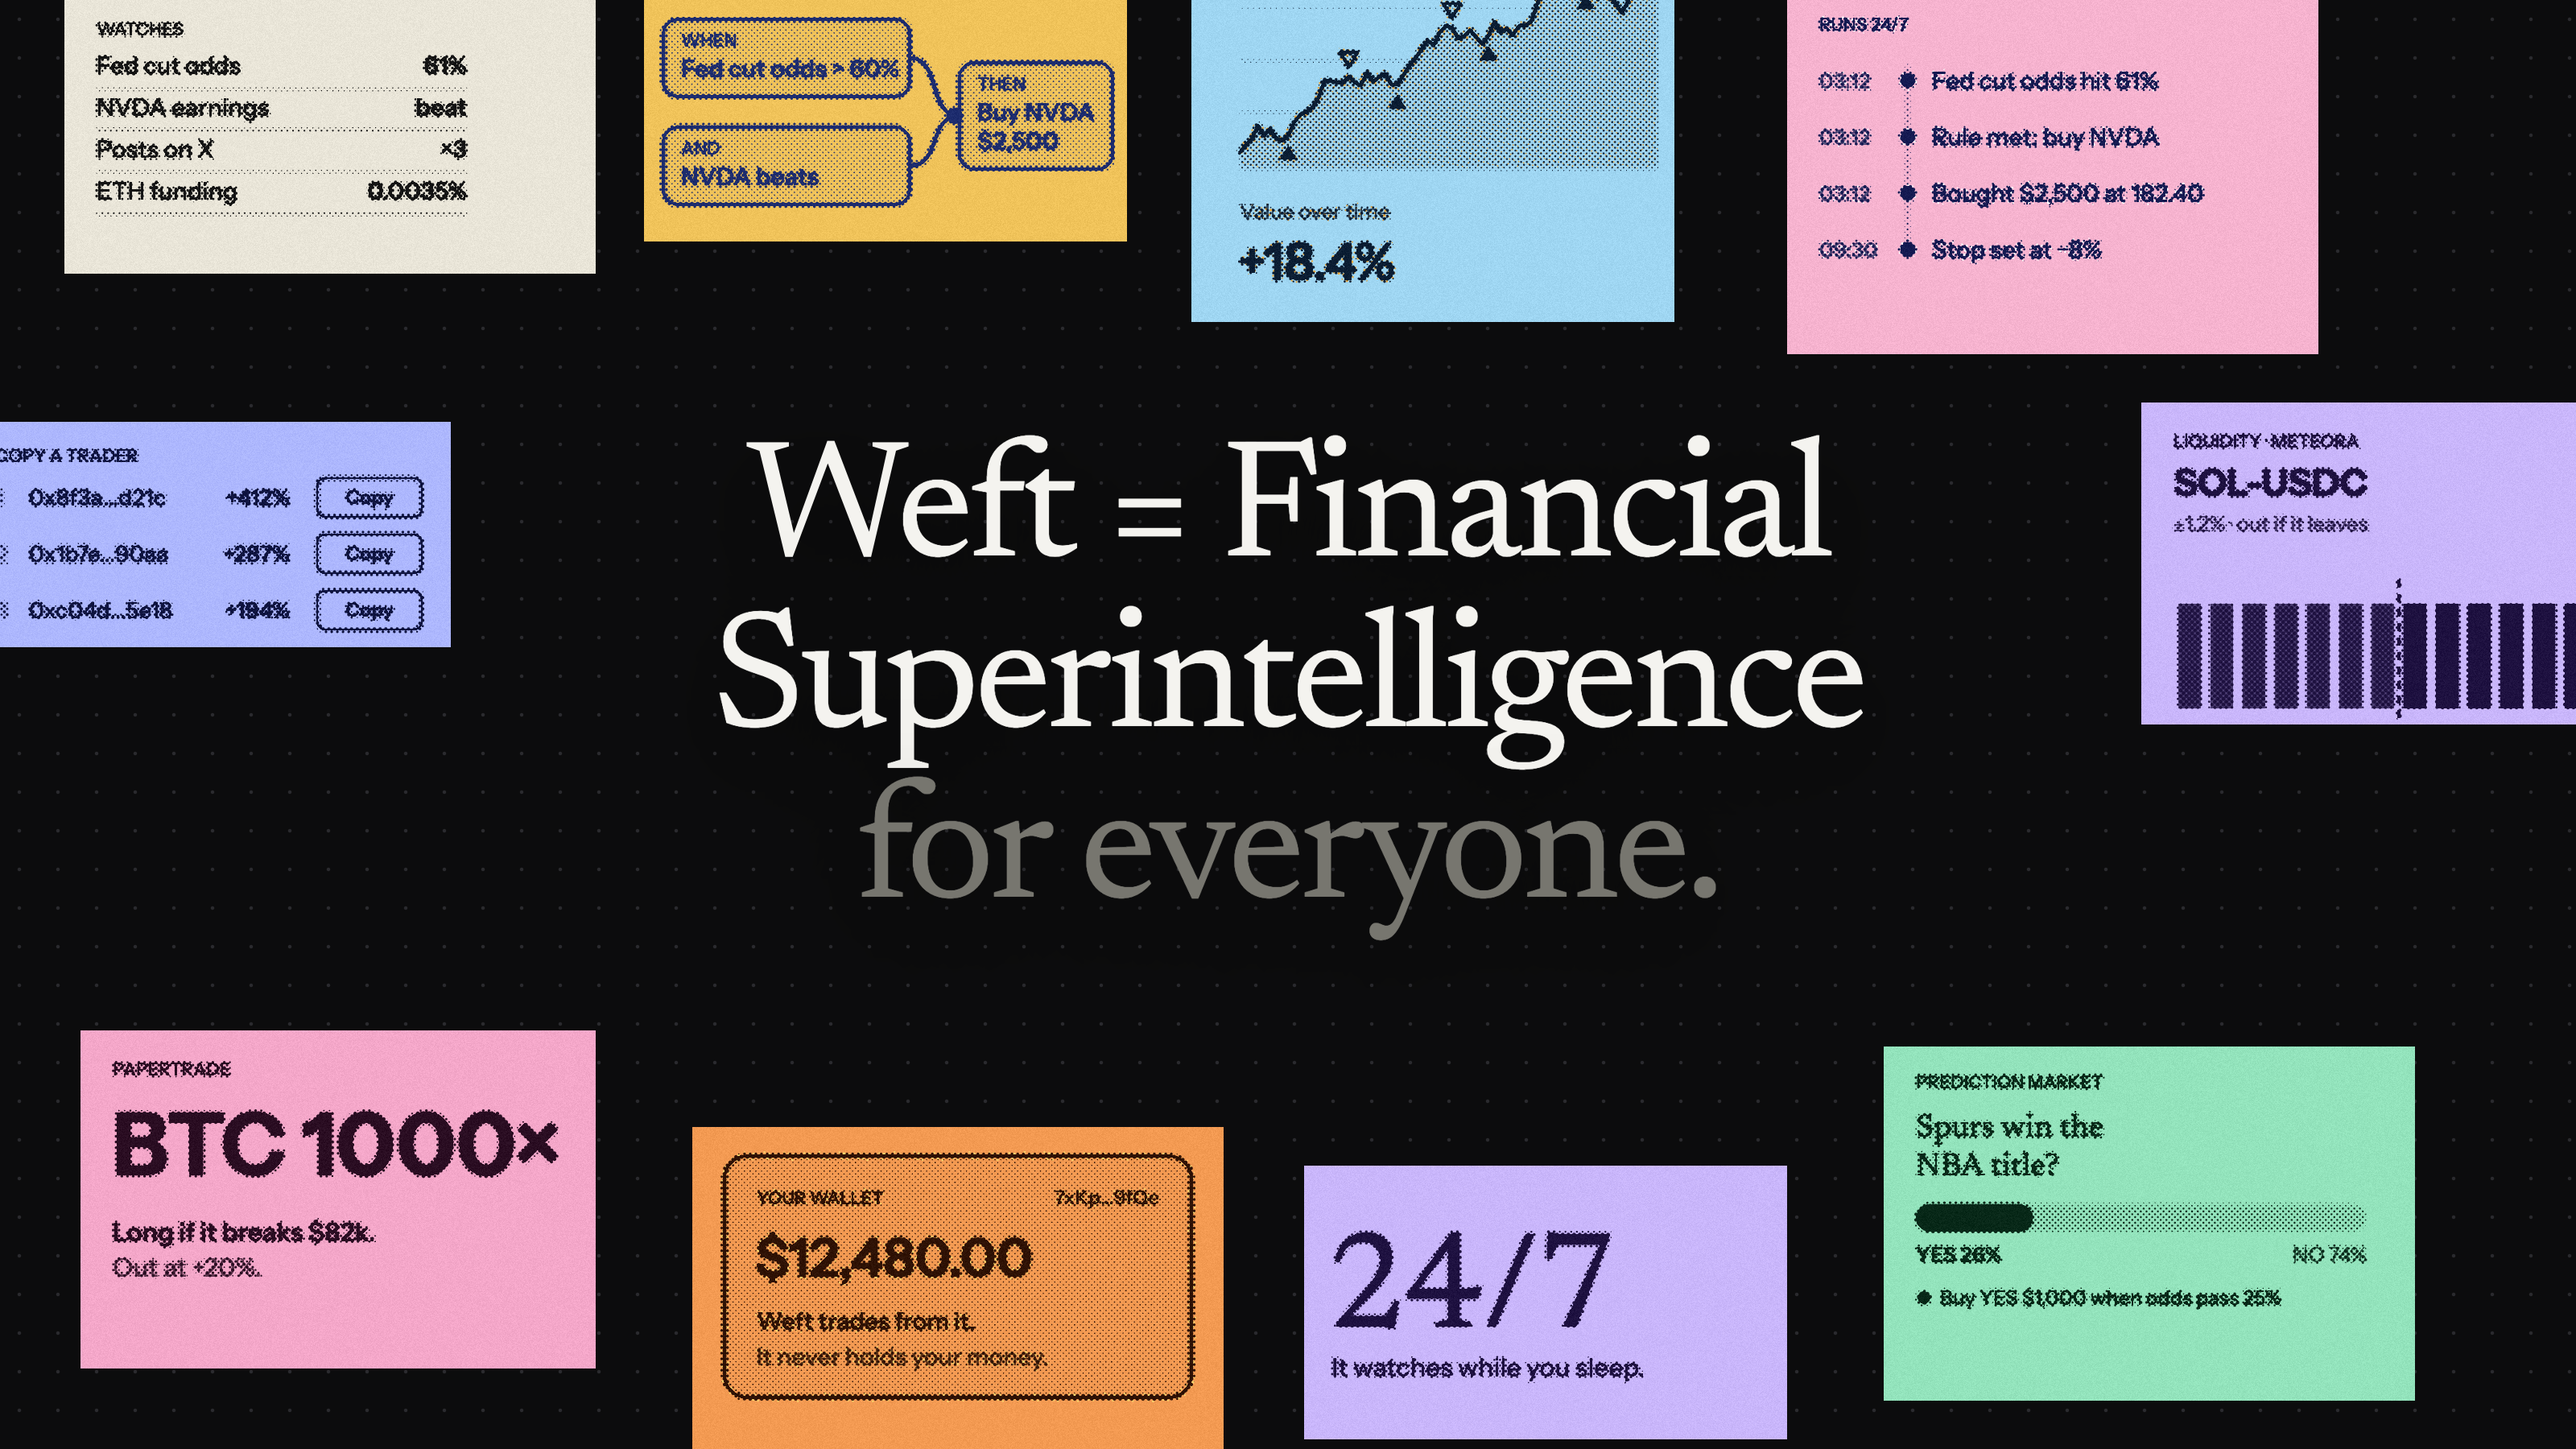
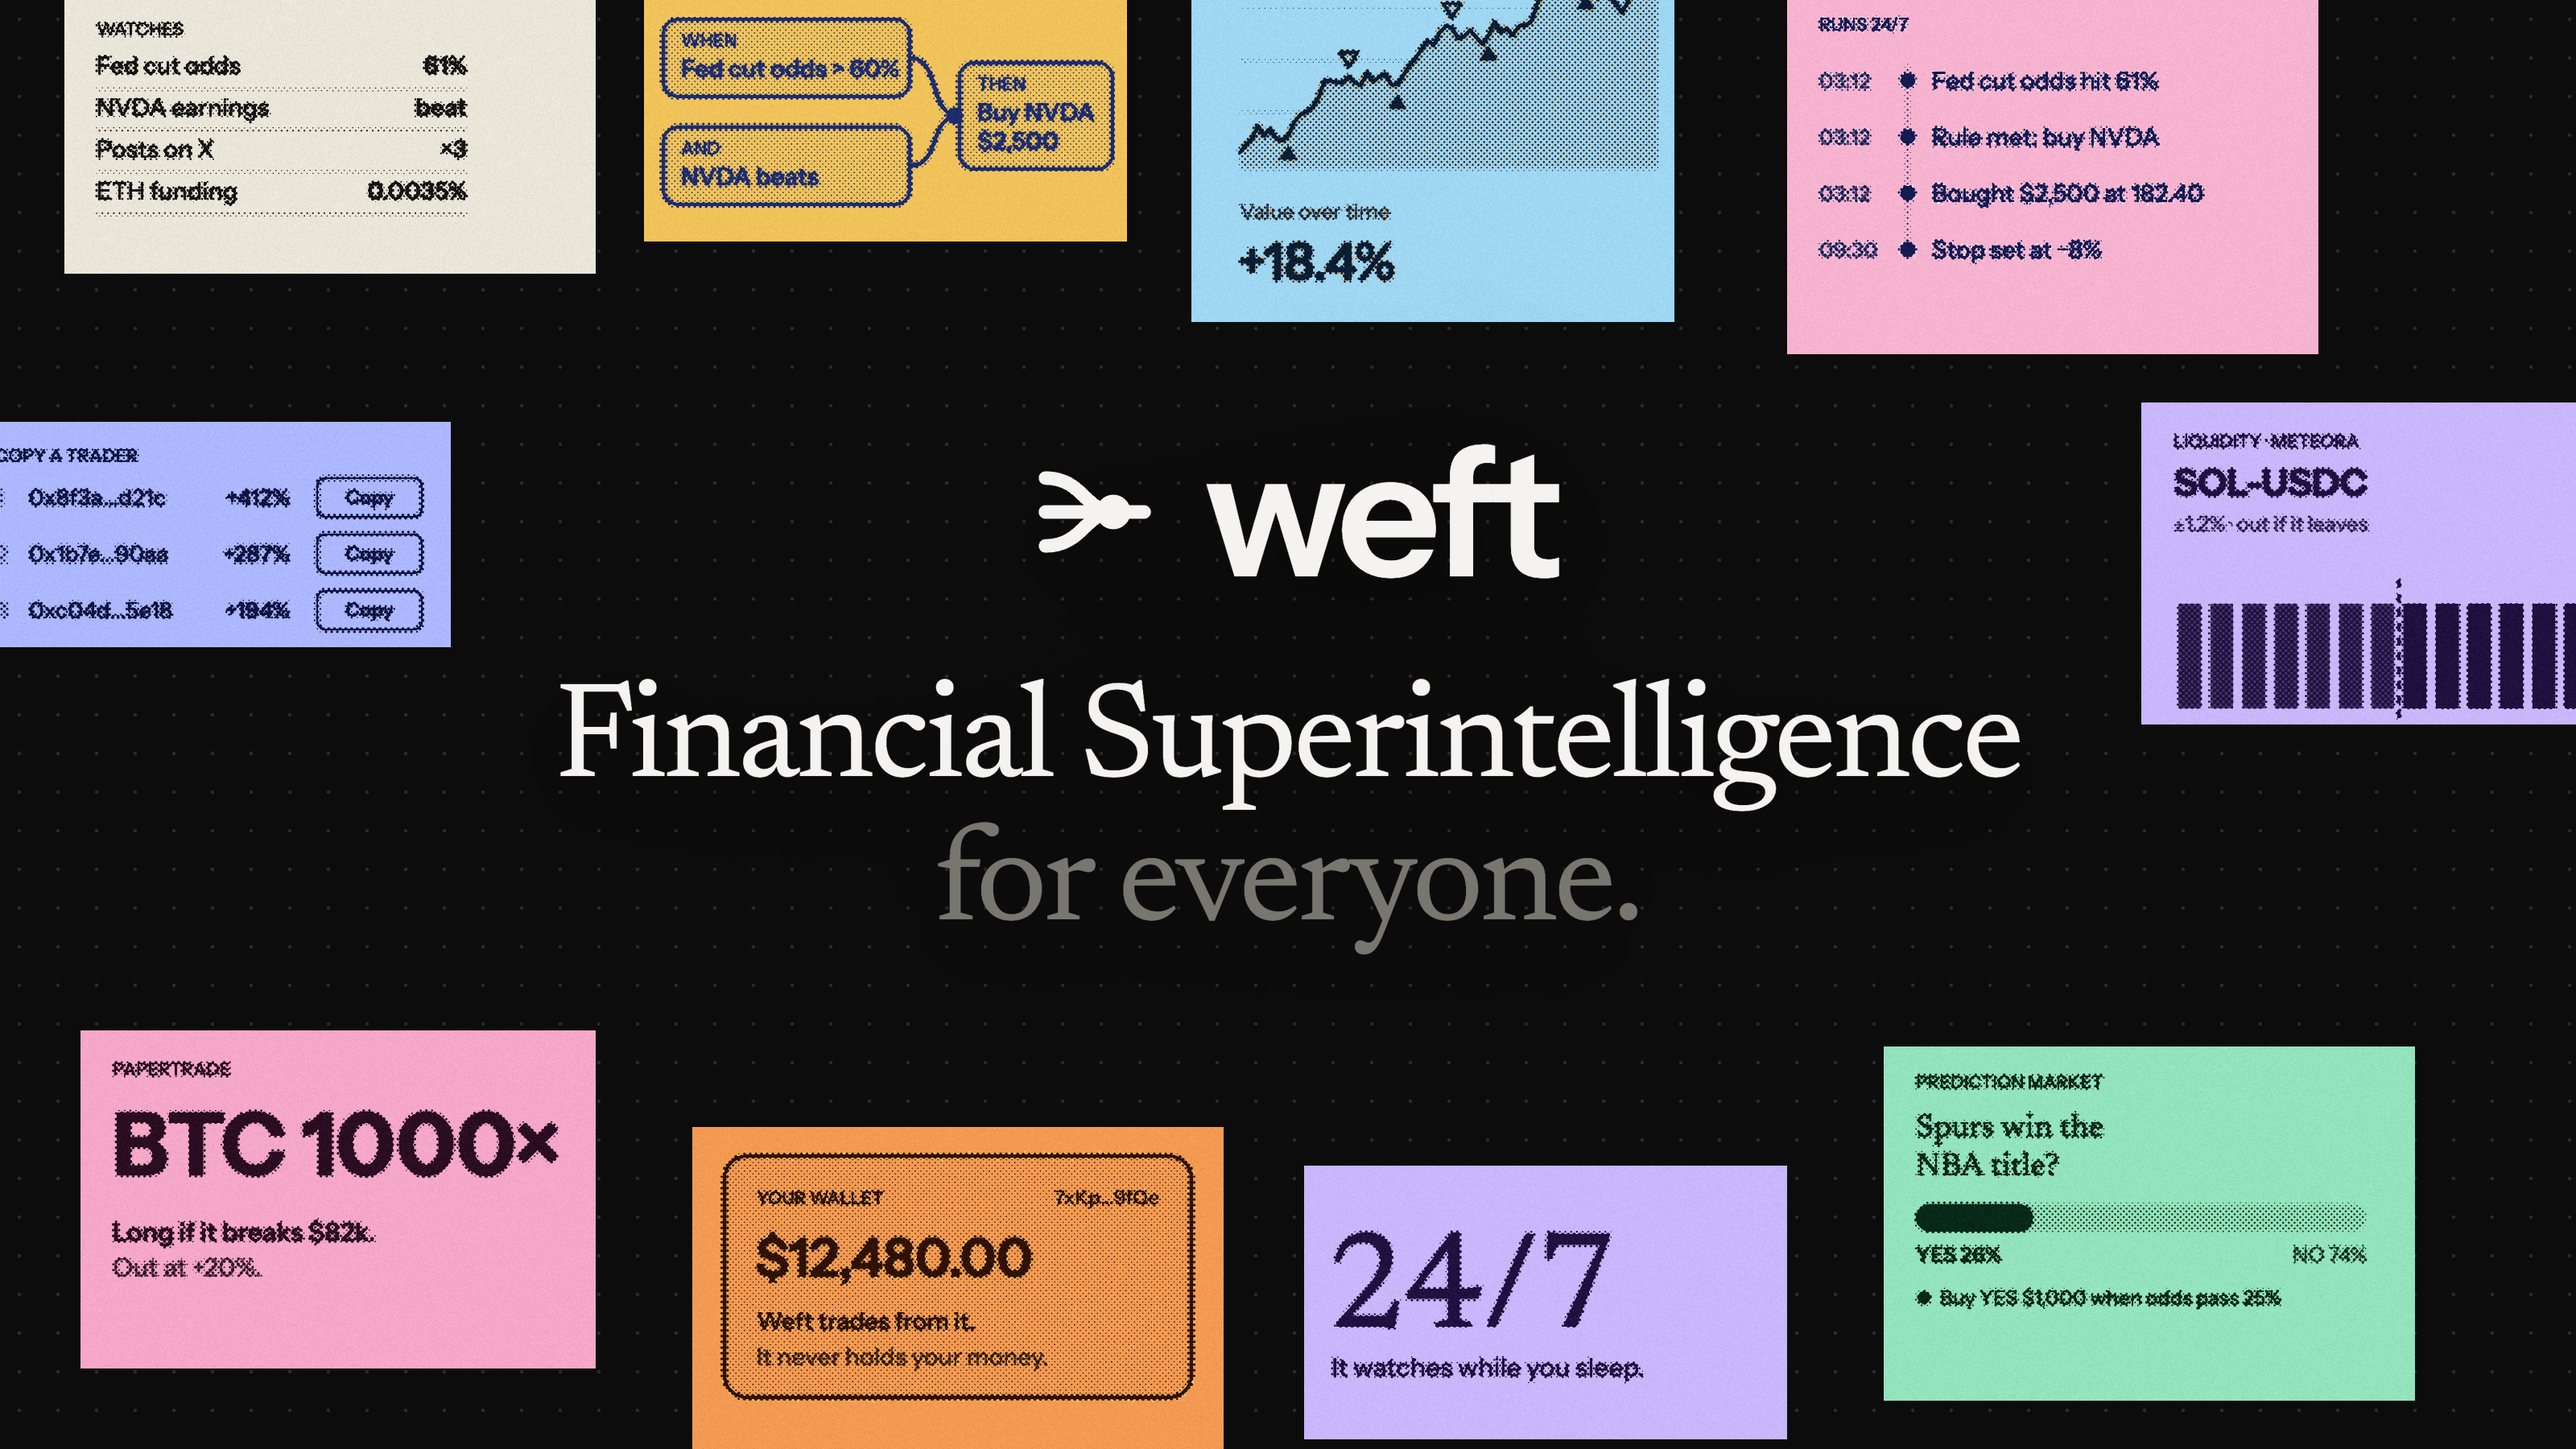
Claim graphic: wordmark on its own line, no equals sign

Changed region(s): [[0.2188, 0.28, 0.7812, 0.6533]]

diff --git a/content/x-banner/v2/banners.html b/content/x-banner/v2/banners.html
@@ -1006,7 +1006,10 @@ const BANNERS = {
       [drawPM, "green", 1170, 650, 330, 220],
     ];
     for (const [fn, ink, x, y, w, h] of T) tile(x, y, w, h, fn, ink, { contrast: 1.0, cell: 5, solid: 0.42 });
-    div(`Weft = Financial<br>Superintelligence<br><span style="color:#77766f">for everyone.</span>`, "position:absolute;left:0;right:0;top:268px;text-align:center;font-size:104px;line-height:1.02;letter-spacing:-0.03em;color:#f4f3ef;text-shadow:0 20px 60px rgba(0,0,0,0.6)").classList.add("serif");
+    // the wordmark on its own line, the claim under it
+    const mark = `<svg width="92" height="92" viewBox="0 0 48 48"><g fill="none" stroke="#f4f3ef" stroke-width="4.4" stroke-linecap="round"><path d="M8 13C20 13 21 24 30 24"/><path d="M8 24H30"/><path d="M8 35C20 35 21 24 30 24"/><path d="M30 24H40"/></g><circle cx="30" cy="24" r="5.6" fill="#f4f3ef"/></svg>`;
+    div(`${mark}<span style="font-size:112px;font-weight:600;letter-spacing:-0.045em;line-height:1">weft</span>`, "position:absolute;left:0;right:0;top:262px;display:flex;align-items:center;justify-content:center;gap:22px;color:#f4f3ef;filter:drop-shadow(0 20px 50px rgba(0,0,0,0.6))");
+    div(`Financial Superintelligence<br><span style="color:#77766f">for everyone.</span>`, "position:absolute;left:0;right:0;top:418px;text-align:center;font-size:84px;line-height:1.06;letter-spacing:-0.025em;color:#f4f3ef;text-shadow:0 20px 60px rgba(0,0,0,0.6)").classList.add("serif");
   },
   safe() {
     $b.style.width = "1080px"; $b.style.height = "1080px"; $b.className = "dark"; dots("#242428", 24);
